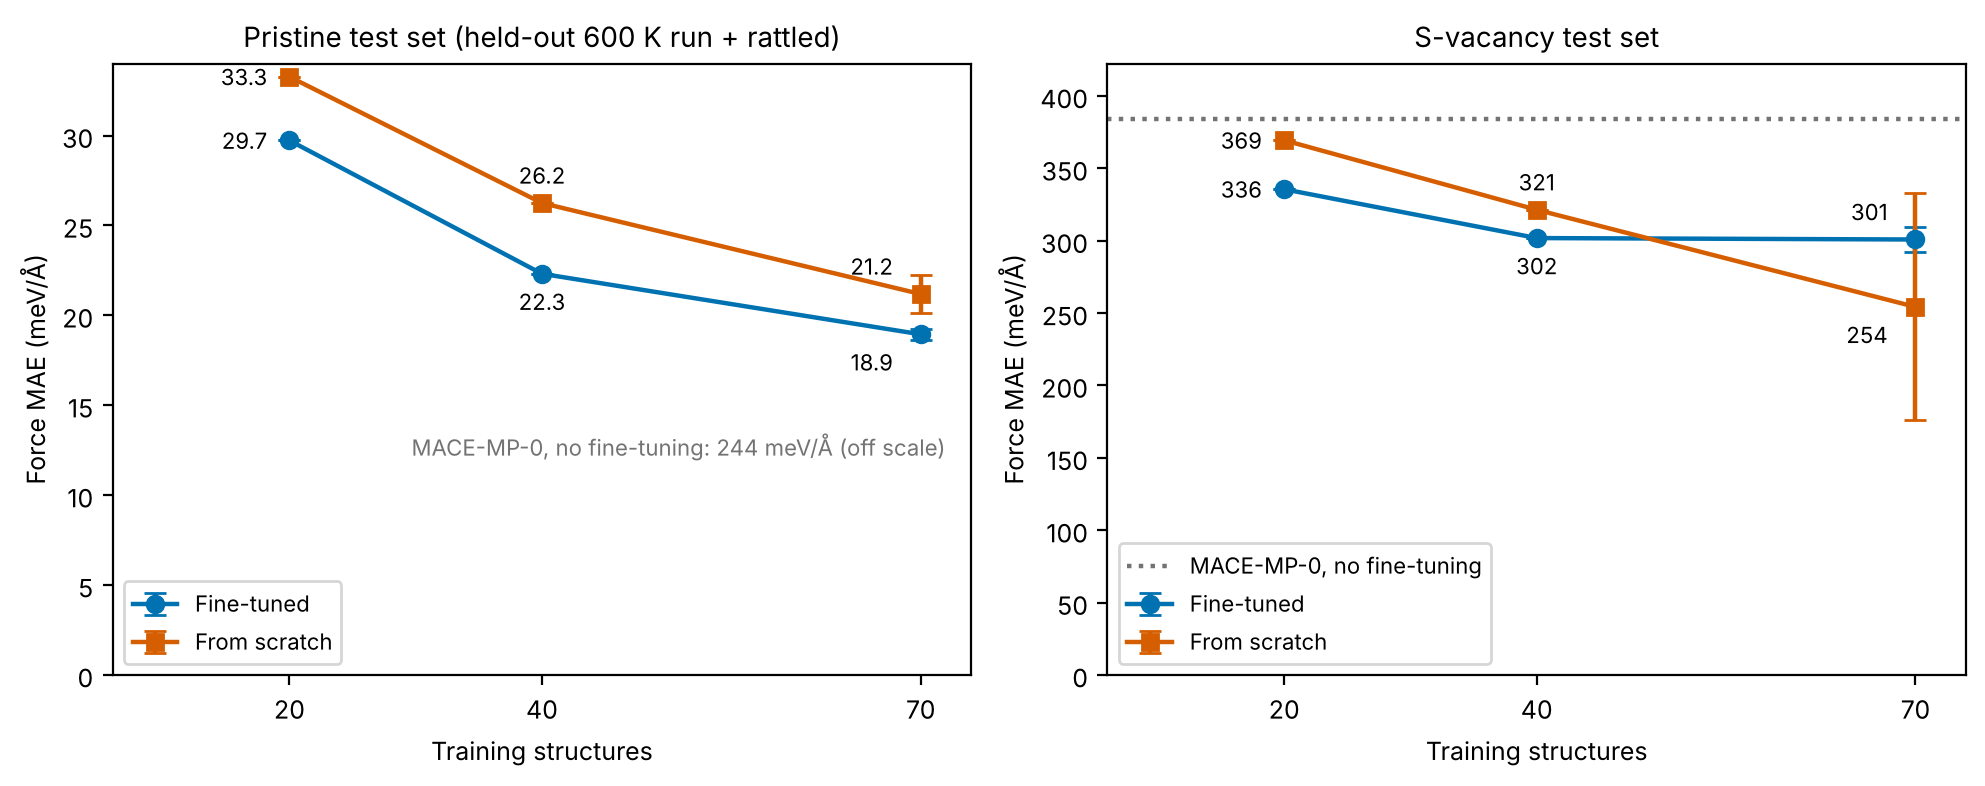
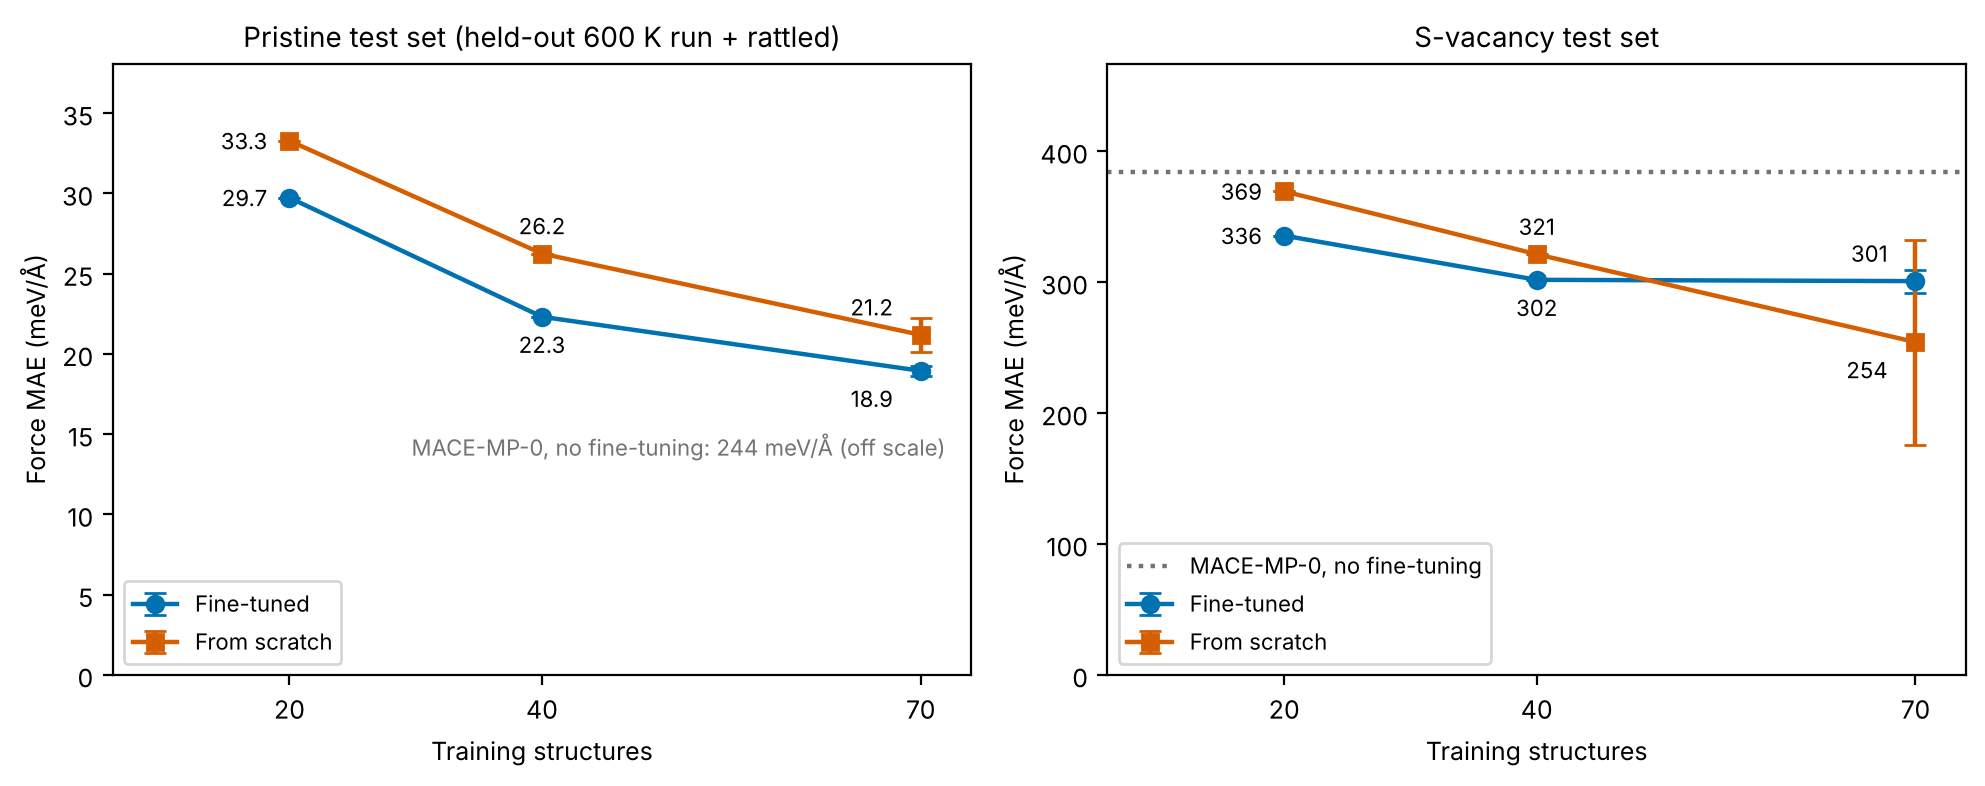
Show fine-tuning comparison as bar charts

diff --git a/scripts/07_evaluate.py b/scripts/07_evaluate.py
@@ -162,7 +162,7 @@ for ax, key, title in zip(axes, ["test_force_MAE_meV_per_A", "vacancy_force_MAE_
             dy = (-3 if i == 0 else 7 if v >= w else -13)
             ax.annotate(fmt.format(v), (x, v), textcoords="offset points", xytext=(dx, dy), ha=ha, fontsize=8)
     ax.set(xticks=n, xlim=(6, 74), xlabel="Training structures", ylabel="Force MAE (meV/Å)", title=title)
-    ax.set_ylim(bottom=0)
+    ax.set_ylim(0, 1.12 * ax.get_ylim()[1])
 axes[0].text(0.97, 0.35, f"MACE-MP-0, no fine-tuning: {zero['test_force_MAE_meV_per_A']:.0f} meV/Å (off scale)",
              transform=axes[0].transAxes, ha="right", va="bottom", fontsize=8, color=GRAY)
 axes[1].axhline(zero["vacancy_force_MAE_meV_per_A"], color=GRAY, ls=":", lw=1.6, label=STYLE[main[0]]["label"])
@@ -180,29 +180,32 @@ ax.legend()
 fig.tight_layout()
 fig.savefig("results/strain_test.png", dpi=200, bbox_inches="tight")
 
-# fine-tuning strategies: strain curves (left) and force error against strain curve error (right)
+# fine-tuning strategies: strain curves (left), force error and strain curve error (bars)
 strategies = ["Fine-tuned (70)", "Multi-head (70)", "Fine-tuned (70), lr 1e-4", "Multi-head (70), lr 1e-4"]
 label = lambda name: f"{STYLE[name]['label']}, {LR[name[len(name.split(',')[0]):]]}"
-fig, axes = plt.subplots(1, 2, figsize=(11, 4.2))
+fig, axes = plt.subplots(1, 3, figsize=(15, 4.2), gridspec_kw={"width_ratios": [1.3, 1, 1]})
 strain_curve(axes[0], [main[0]] + strategies, [STYLE[main[0]]["label"]] + [label(nm) for nm in strategies])
 axes[0].set_title("Held-out biaxial strain test (seed 1 models)")
 axes[0].legend(loc="upper center")
-for name in strategies:
-    m = metrics.get(name + ", 3 seeds", metrics[name])
-    get = lambda k: (m[k]["mean"], m[k]["std"]) if isinstance(m[k], dict) else (m[k], 0)
-    (x, dx), (y, dy) = get("strain_curve_RMSE_meV_per_atom"), get("test_force_MAE_meV_per_A")
-    seeds = "3 seeds" if dx else "1 seed"
-    filled = STYLE[name]["ls"] == "-"
-    axes[1].errorbar(x, y, xerr=dx, yerr=dy, fmt="o" if filled else "s", ms=7, capsize=3, color=STYLE[name]["color"],
-                     mfc=STYLE[name]["color"] if filled else "white", mew=1.6, label=f"{label(name)} ({seeds})")
-zx = zero["strain_curve_RMSE_meV_per_atom"]
-axes[1].axvline(zx, color=GRAY, ls=":", lw=1.6)
-axes[1].text(zx + 0.08, 0.97, f"MACE-MP-0, no fine-tuning\n(force MAE {zero['test_force_MAE_meV_per_A']:.0f} meV/Å, off scale)",
-             transform=axes[1].get_xaxis_transform(), fontsize=8, va="top", color=GRAY)
-axes[1].annotate("better", xy=(0.03, 0.05), xytext=(0.14, 0.2), xycoords="axes fraction", fontsize=8, color=GRAY,
-                 ha="center", arrowprops=dict(arrowstyle="->", color=GRAY))
-axes[1].set(xlabel="Strain curve RMSE (meV/atom)", ylabel="Test force MAE (meV/Å)",
-            xlim=(0, 6.8), ylim=(0, 48), title="Force error against strain curve error")
-axes[1].legend(loc="lower right")
-fig.tight_layout()
+ticks = [f"{STYLE[nm]['label']}\n{LR[nm[len(nm.split(',')[0]):]]}" for nm in strategies]
+for ax, key, title, fmt in [(axes[1], "test_force_MAE_meV_per_A", "Test force MAE (meV/Å)", "{:.1f}"),
+                            (axes[2], "strain_curve_RMSE_meV_per_atom", "Strain curve RMSE (meV/atom)", "{:.1f}")]:
+    for i, name in enumerate(strategies):
+        m = metrics.get(name + ", 3 seeds", metrics[name])
+        y, dy = (m[key]["mean"], m[key]["std"]) if isinstance(m[key], dict) else (m[key], 0)
+        solid = STYLE[name]["ls"] == "-"
+        ax.bar(i, y, width=0.65, color=STYLE[name]["color"] if solid else "white", edgecolor=STYLE[name]["color"],
+               hatch=None if solid else "///", lw=1.6, yerr=dy or None, capsize=4)
+        ax.text(i, y + dy + 0.02 * ax.get_ylim()[1], fmt.format(y), ha="center", va="bottom", fontsize=8)
+    ax.set(xticks=range(4), title=title)
+    ax.set_xticklabels(ticks, fontsize=8)
+    ax.set_ylim(0, 1.2 * ax.get_ylim()[1])
+    ax.spines[["top", "right"]].set_visible(False)
+z = zero["strain_curve_RMSE_meV_per_atom"]
+axes[2].axhline(z, color=GRAY, ls=":", lw=1.6, label=f"MACE-MP-0, no fine-tuning ({z:.1f})")
+axes[2].legend(loc="upper left", frameon=False)
+axes[1].text(0.98, 0.97, f"MACE-MP-0, no fine-tuning: {zero['test_force_MAE_meV_per_A']:.0f} (off scale)",
+             transform=axes[1].transAxes, color=GRAY, fontsize=8, ha="right", va="top")
+fig.text(0.99, 0.01, "Solid bars: mean and std over 3 seeds. Hatched bars: 1 seed.", ha="right", fontsize=8, color=GRAY)
+fig.tight_layout(rect=(0, 0.03, 1, 1))
 fig.savefig("results/finetuning_strategies.png", dpi=200, bbox_inches="tight")

diff --git a/README.md b/README.md
@@ -69,8 +69,8 @@ Multi-head fine-tuning keeps training on part of the foundation model's data whi
 | Fine-tuning | Learning rate | Force MAE (meV/Å) | Strain curve RMSE (meV/atom) | Vacancy force MAE (meV/Å) |
 |---|---:|---:|---:|---:|
 | None | | 244.3 | 1.5 | 384 |
-| Fine-tuned | 5 × 10⁻³ | 18.9 ± 0.3 | 4.9 ± 0.2 | 301 ± 9 |
-| Multi-head | 5 × 10⁻³ | 19.8 ± 0.1 | 5.4 ± 0.4 | 309 ± 8 |
+| Fine-tuned | 5 × 10⁻³ | 18.9 ± 0.3 | 4.9 ± 0.1 | 301 ± 9 |
+| Multi-head | 5 × 10⁻³ | 19.8 ± 0.1 | 5.3 ± 0.4 | 309 ± 8 |
 | Fine-tuned | 10⁻⁴ | 39.0 | 5.9 | 287 |
 | Multi-head | 10⁻⁴ | 32.5 | 3.5 | 271 |
 
